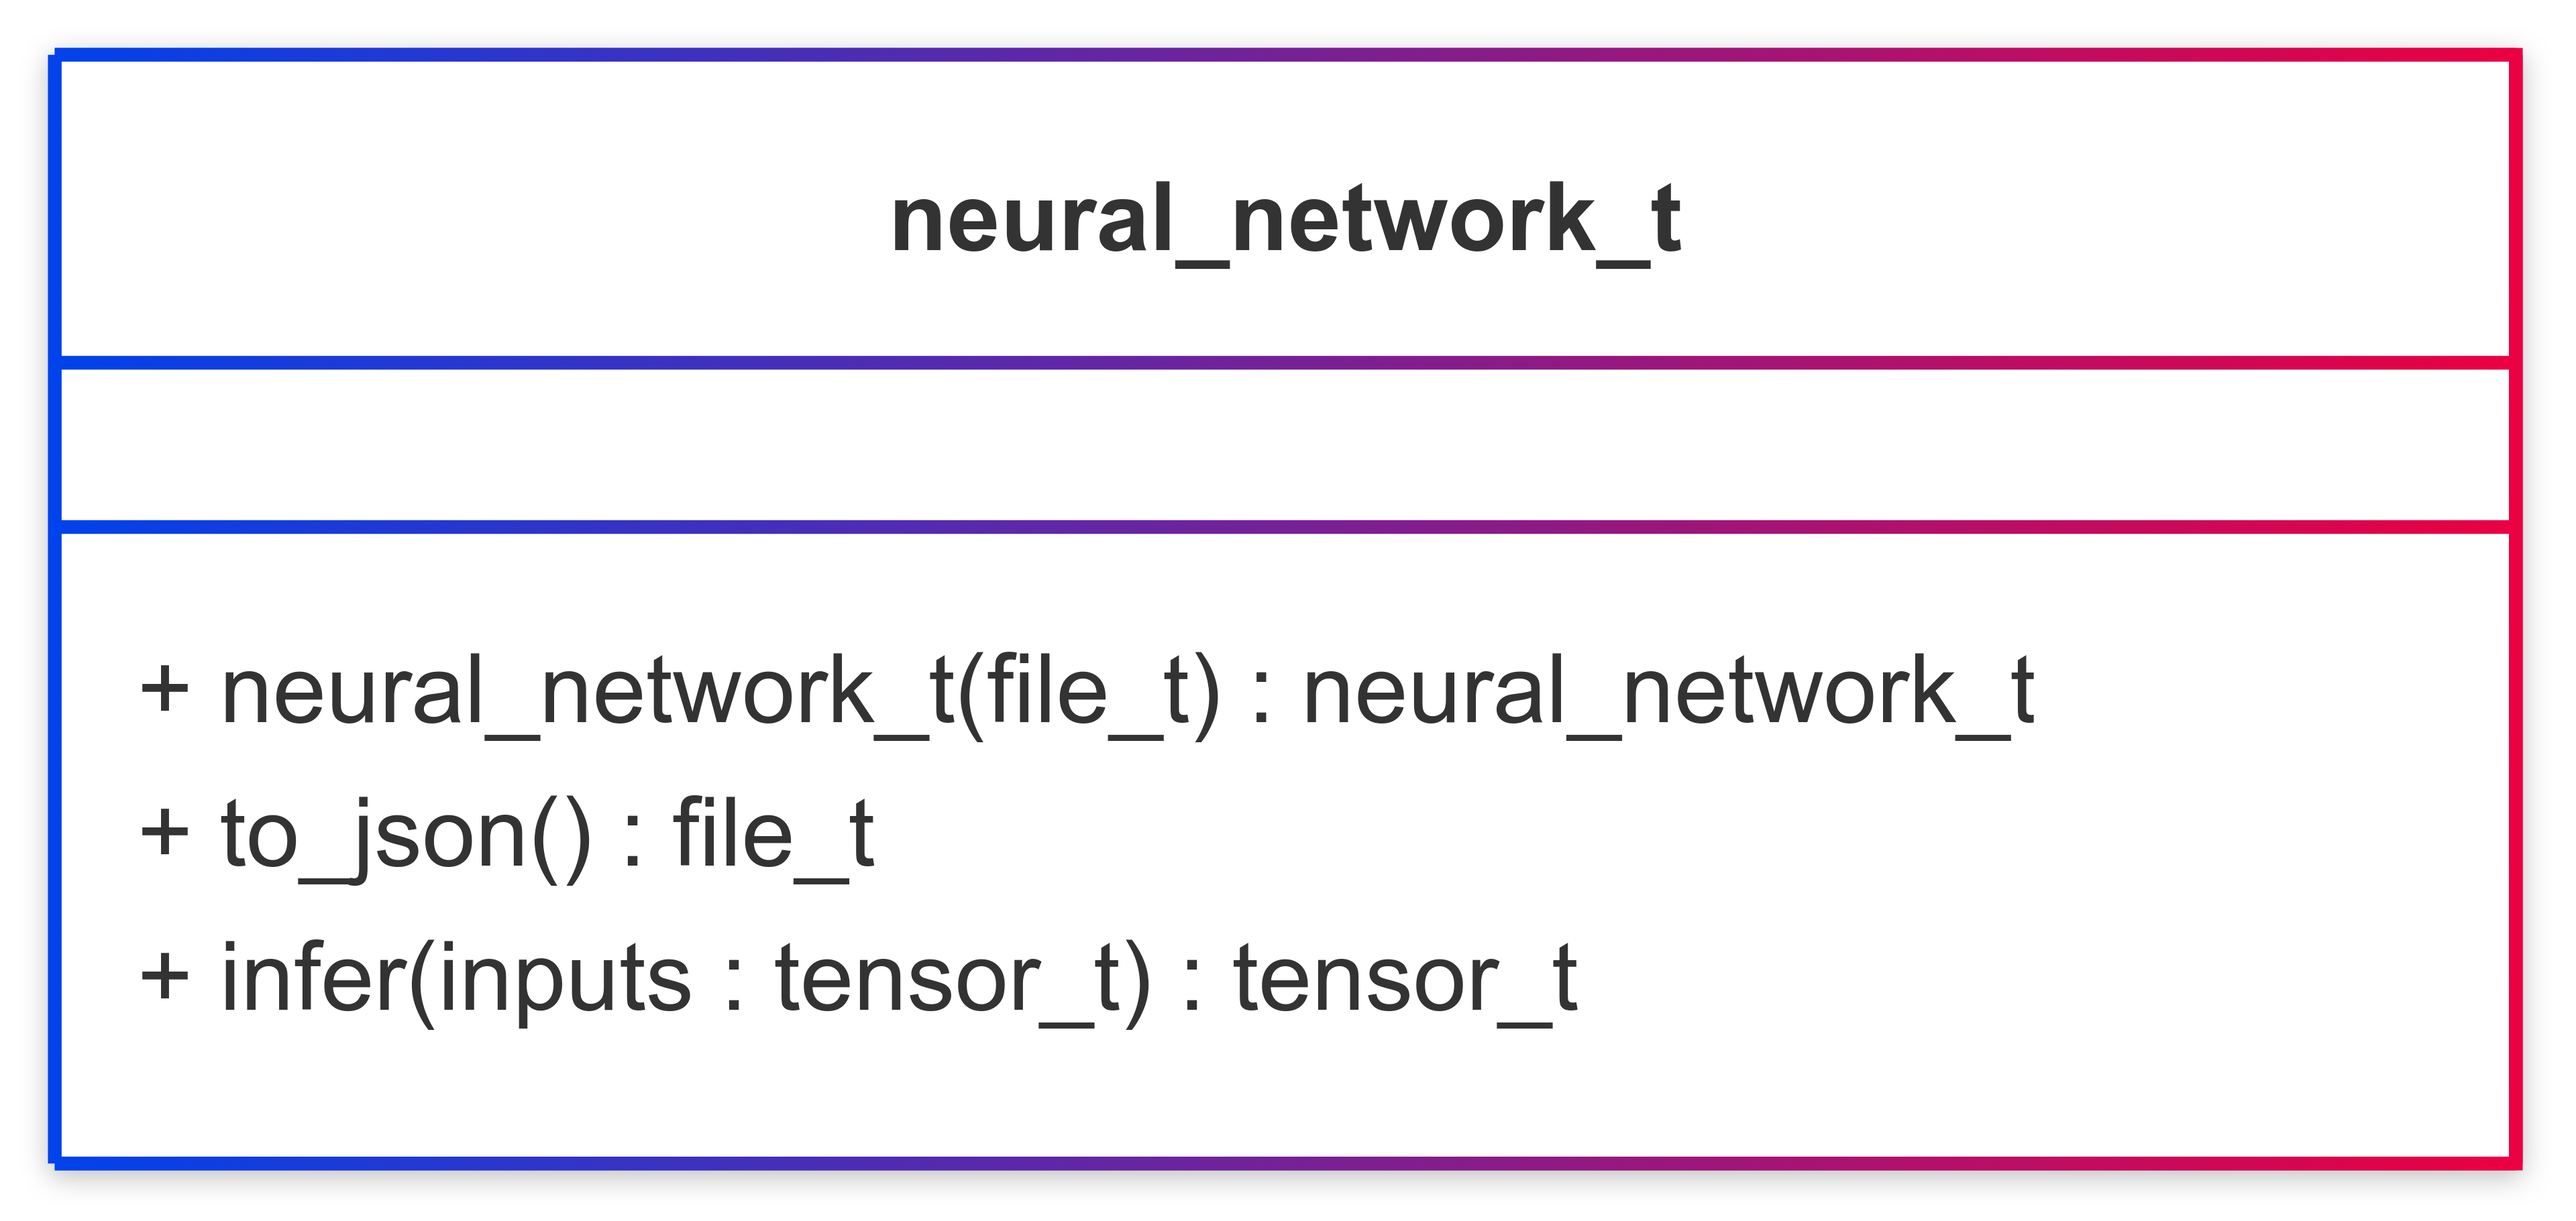
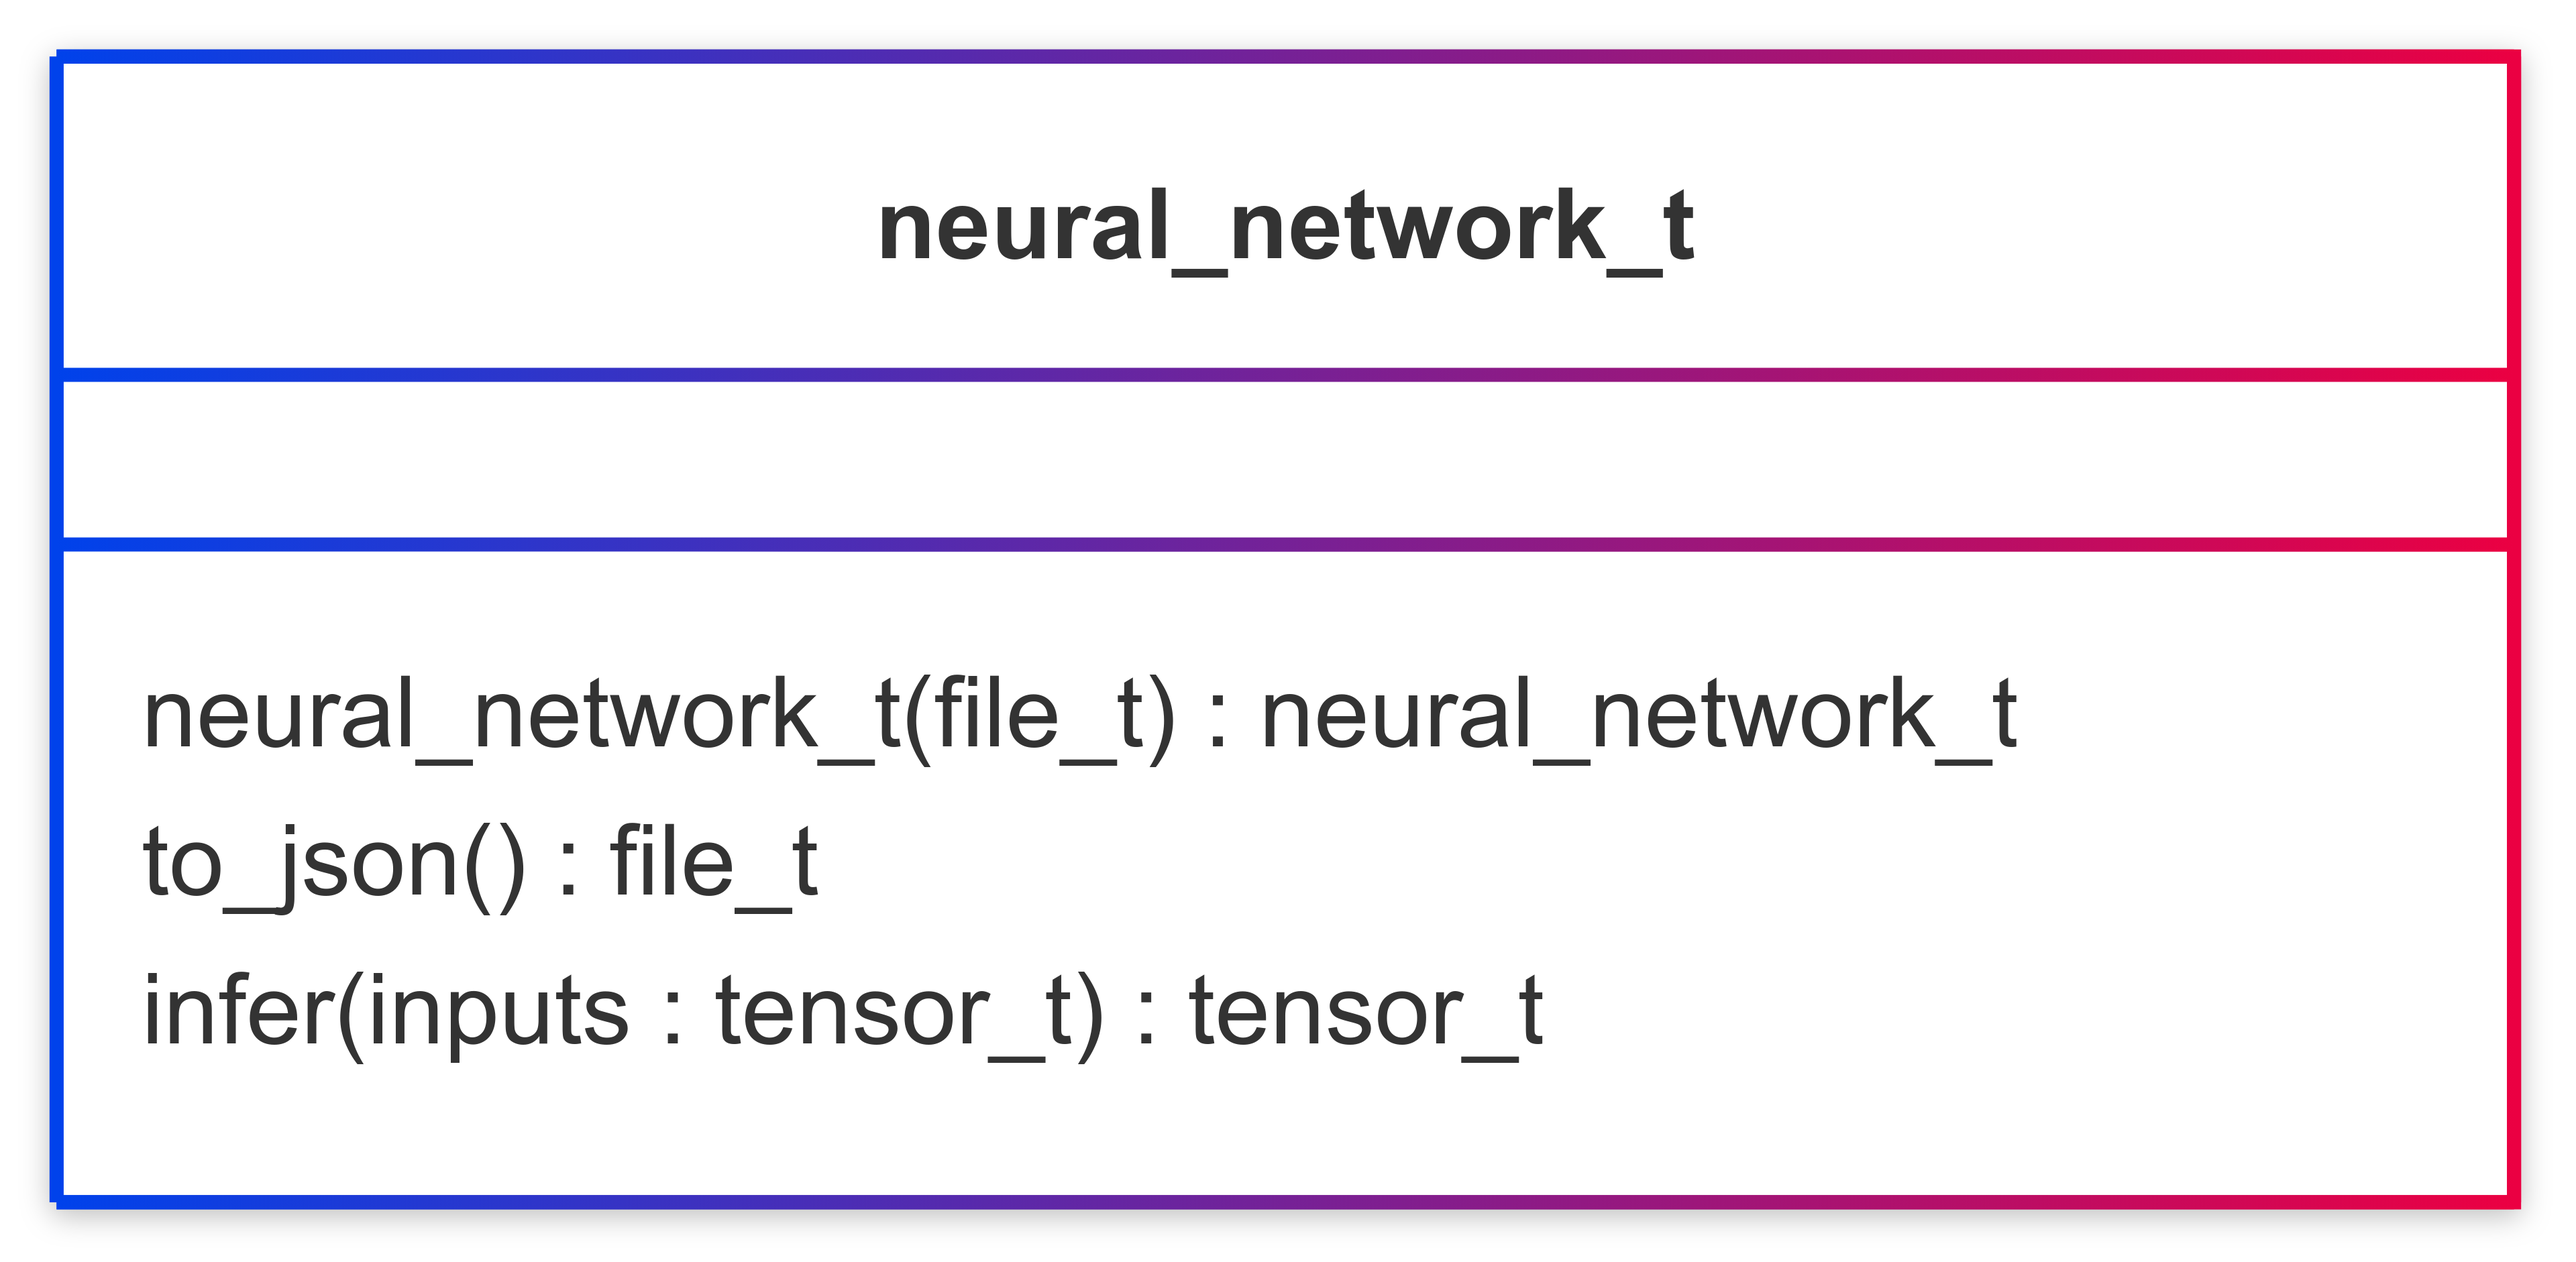
joss: update figures

diff --git a/doc/joss/trainable_network_t.md b/doc/joss/trainable_network_t.md
@@ -6,7 +6,7 @@
 classDiagram
 
     class trainable_network_t {
-	    + trainable_network_t(file_t) trainable_network_t
-	    + trainable_network_t(training_configuration_t, real, metadata, tensor_map_t, tensor_map_t) trainable_network_t
-	    + train(mini_batch_t, cost : real, adam : logical, learnig_rate : real)
+	    trainable_network_t(file_t) trainable_network_t
+	    trainable_network_t(training_configuration_t, real, metadata, tensor_map_t, tensor_map_t) trainable_network_t
+	    train(mini_batch_t, cost : real, adam : logical, learnig_rate : real)
     }

diff --git a/doc/joss/mini_batch_t.md b/doc/joss/mini_batch_t.md
@@ -9,6 +9,6 @@ This Unified Modeling Language (UML) class diagram depicts the derived types and
 classDiagram
 
     class mini_batch_t {
-      + mini_batch_t(input_output_pairs(:) : input_output_pair_t)
-	    + shuffle()
+      mini_batch_t(input_output_pairs(:) : input_output_pair_t)
+	    shuffle()
     }

diff --git a/doc/joss/neural_network_t.md b/doc/joss/neural_network_t.md
@@ -5,7 +5,7 @@
 classDiagram
 
     class neural_network_t {
-	    + neural_network_t(file_t) neural_network_t
-	    + to_json() file_t
-	    + infer(inputs : tensor_t) tensor_t
+	    neural_network_t(file_t) neural_network_t
+	    to_json() file_t
+	    infer(inputs : tensor_t) tensor_t
     }

diff --git a/doc/joss/tensor_t.md b/doc/joss/tensor_t.md
@@ -9,6 +9,5 @@ This Unified Modeling Language (UML) class diagram depicts the derived types and
 classDiagram
 
     class tensor_t~kind~{
-      tensor_t(values : real) tensor_t
       tensor_t(values : real~kind~) tensor_t
     }
